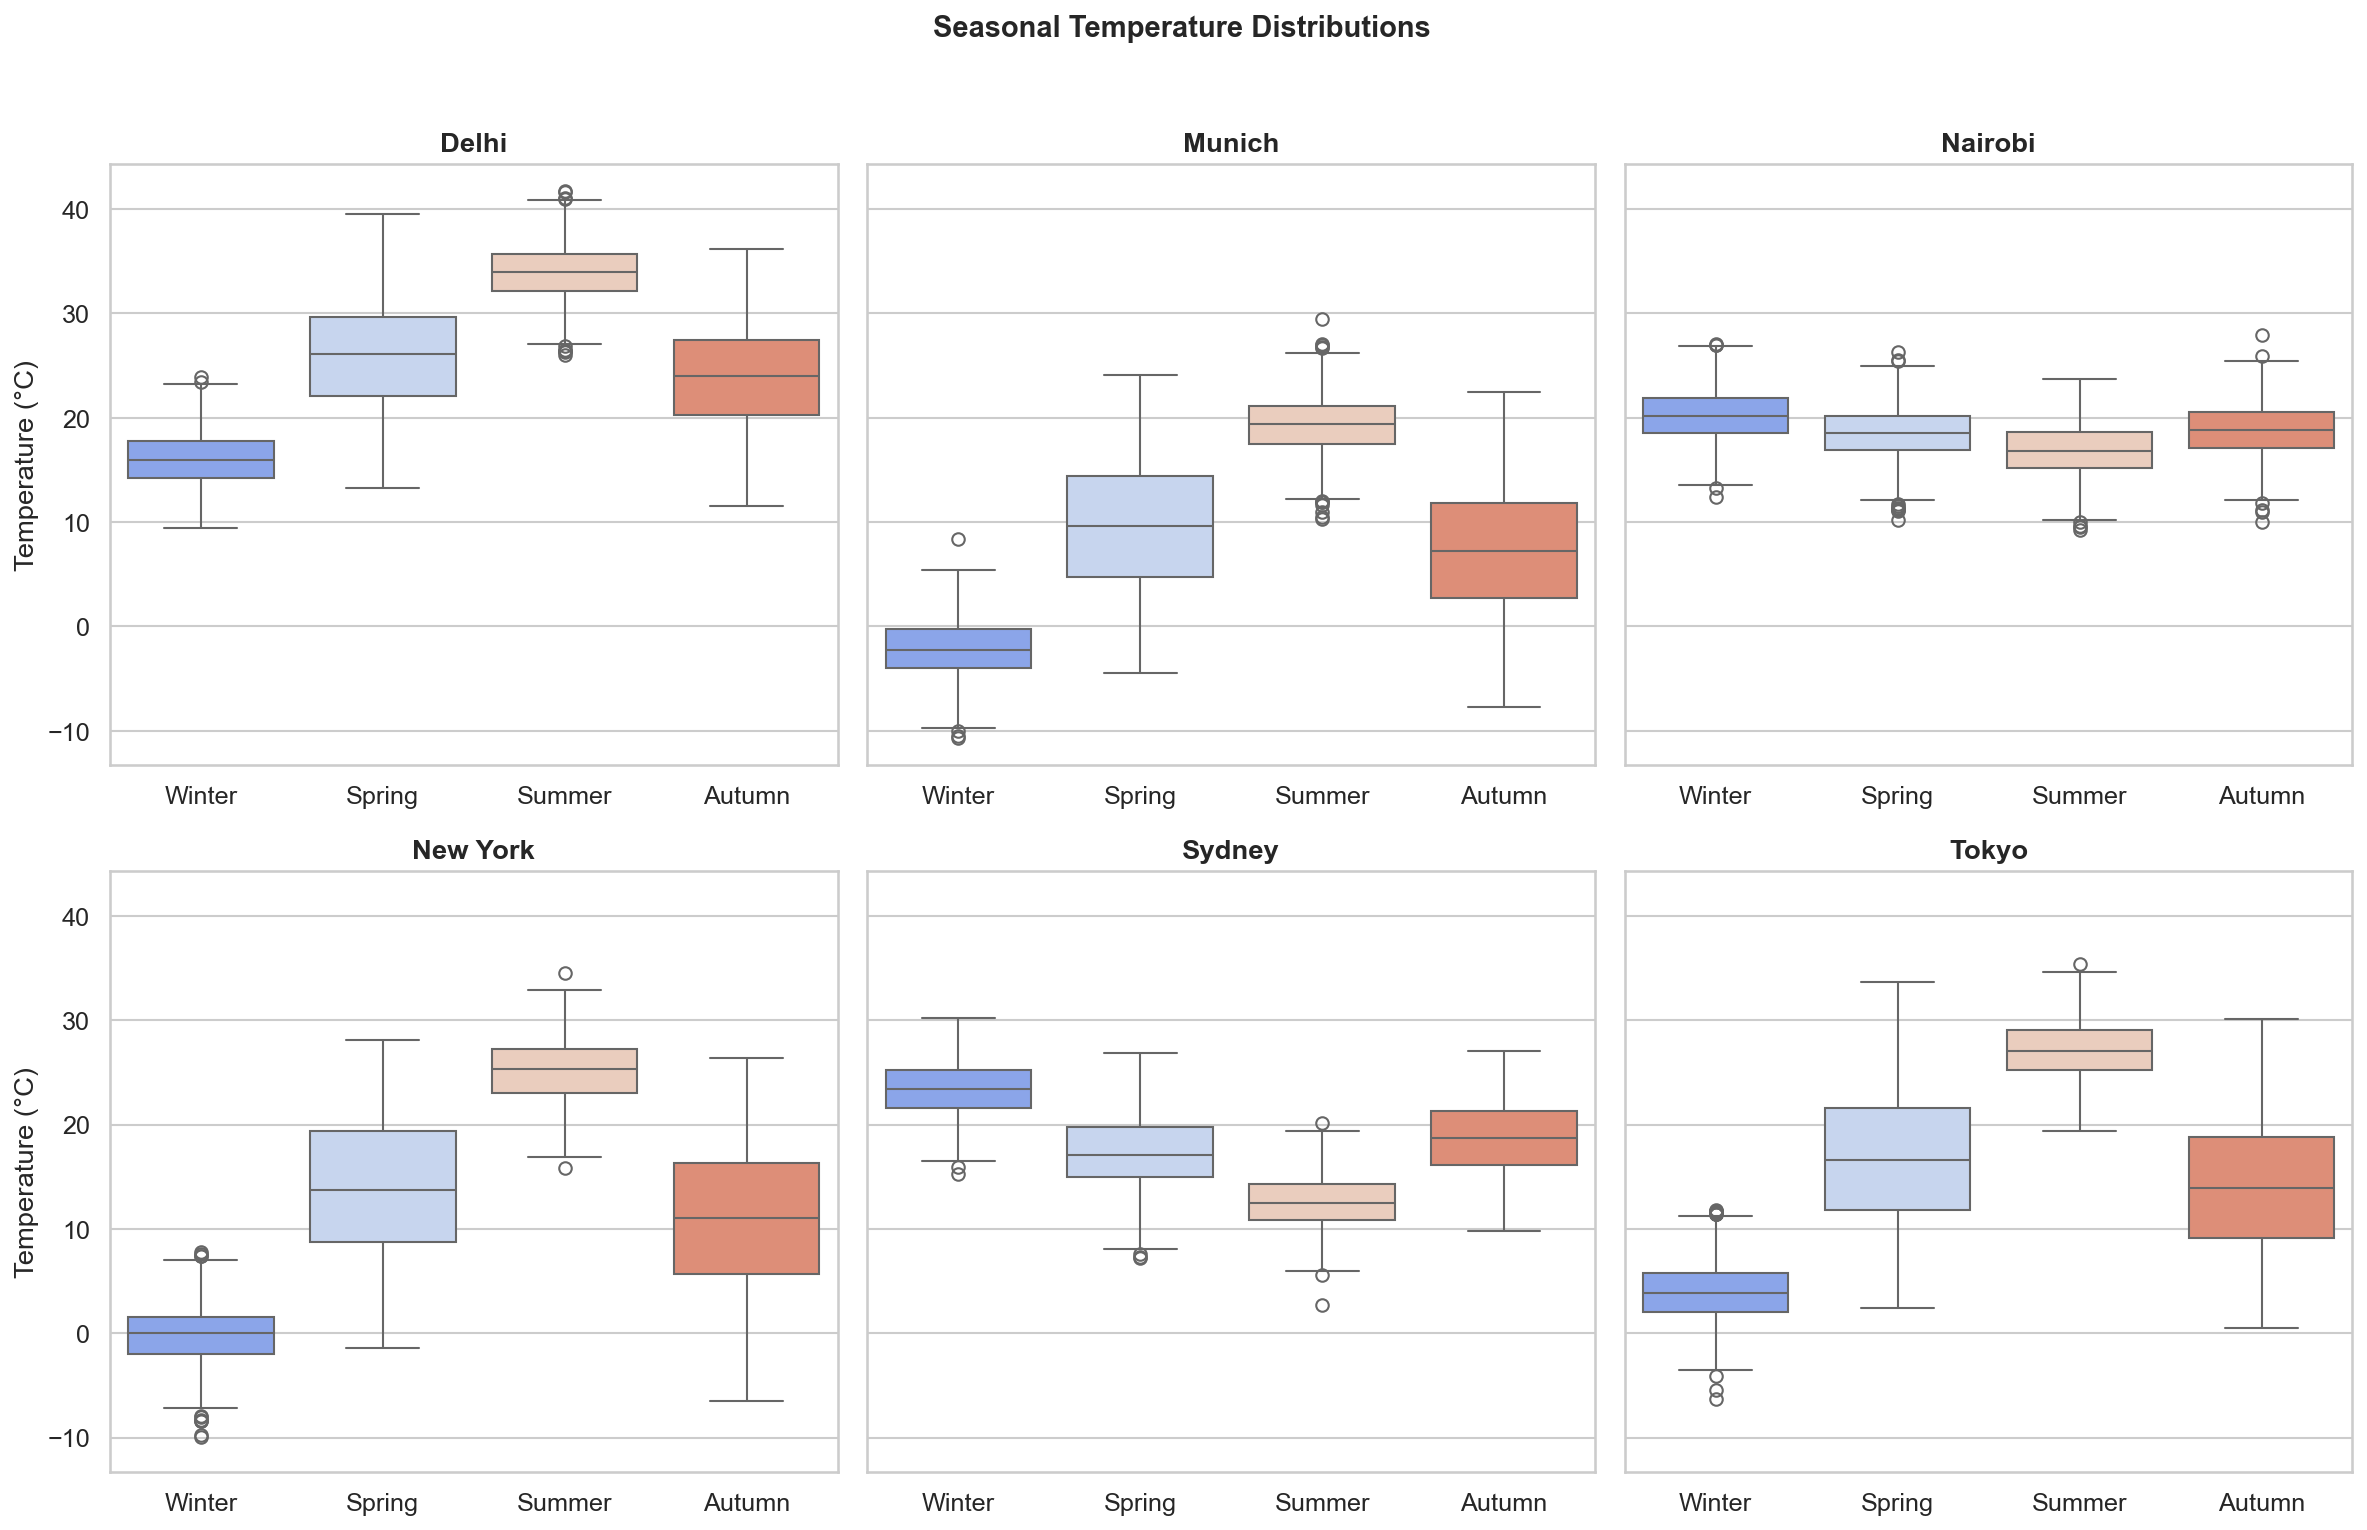
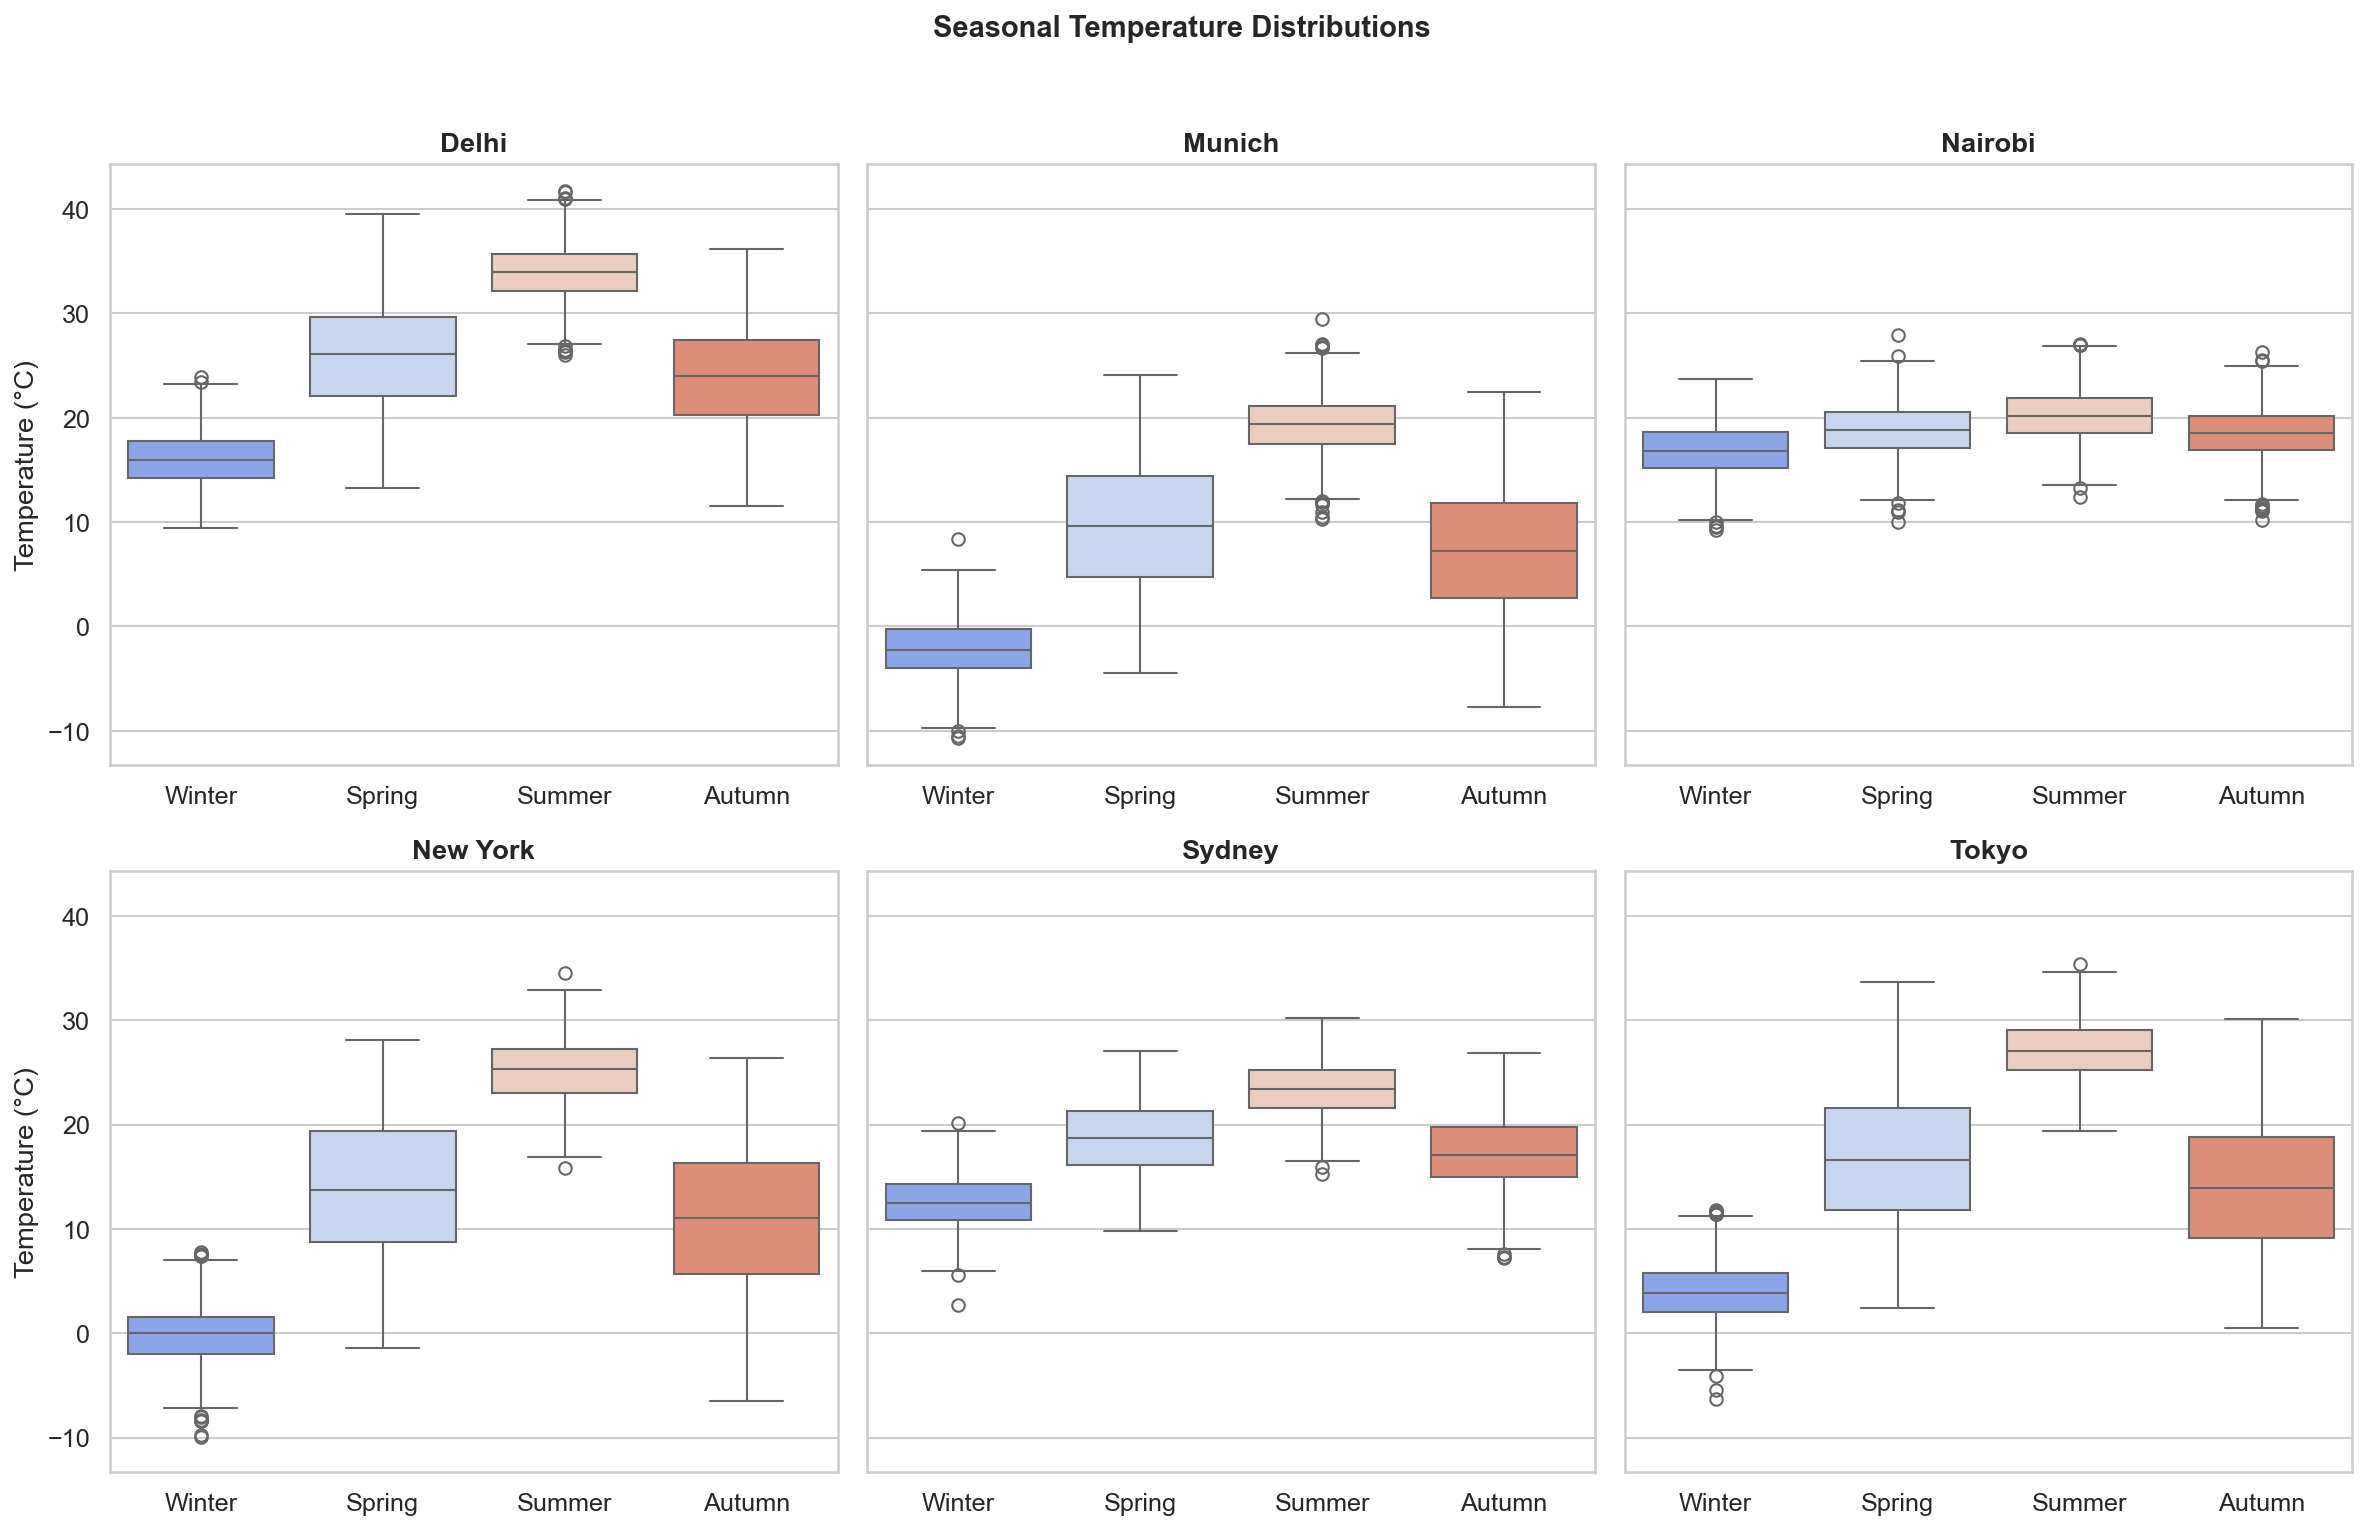
Correct two labels on the original figures
Figure 08 was titled a temperature anomaly relative to monthly
climatology. It plots a 90-day rolling departure from each city's own
monthly mean, which is a different and smaller thing, and on a record whose
days are drawn independently there is no trend for it to show. Retitled to
say what it plots.

The module docstring claimed comprehensive coverage and climate anomaly
detection. Replaced with a description of the twelve figures and the two
caveats that matter: the correlation matrix is the pooled one, and the
departure series is noise by construction.

Computations are unchanged. Figure 03 is regenerated with a two-pixel
layout shift from a newer matplotlib; the data behind it is identical.

diff --git a/src/eda_analysis.py b/src/eda_analysis.py
@@ -1,25 +1,34 @@
-"""
-Comprehensive Exploratory Data Analysis of Weather Data.
+"""The original twelve exploratory figures, kept as they were computed.
 
-Generates 10+ professional publication-quality visualizations covering:
-- Temperature distributions and trends
-- Precipitation patterns and extremes
-- Seasonal and geographic comparisons
-- Correlation analysis
-- Climate anomaly detection
+Descriptive plots of the generated record in data/weather_data.csv: temperature
+distributions, precipitation by month, seasonal and per-city comparisons, a
+correlation matrix and a departure-from-monthly-mean series.
+
+Two of these figures carry a caveat the README covers in more detail.
+
+  The correlation matrix (figure 06) is computed over all six cities pooled
+  together, which mixes differences between cities into coefficients meant to
+  describe days within one. Figure 04 under docs/figures shows the same
+  correlation at three levels of pooling.
+
+  The departure series (figure 08) has nothing to find. The generator draws each
+  day independently around a fixed seasonal mean, so there is no trend and no
+  persistence in this record. The series is noise by construction and is not
+  evidence about weather or climate anywhere.
+
+Writes results/figures/ and results/key_findings.json.
 """
 
-import os
 import json
+import os
+
+import matplotlib
 import numpy as np
 import pandas as pd
-import matplotlib
 
 matplotlib.use("Agg")
 import matplotlib.pyplot as plt
-import matplotlib.gridspec as gridspec
 import seaborn as sns
-from scipy import stats
 
 # Style configuration
 sns.set_theme(style="whitegrid", font_scale=1.1)
@@ -40,7 +49,7 @@ def run_eda(csv_path: str, output_dir: str = "../results"):
     print(f"Date range: {df['date'].min().date()} to {df['date'].max().date()}")
 
     # ===============================================================
-    # 1. DATASET OVERVIEW — Summary Statistics
+    # 1. DATASET OVERVIEW: summary statistics
     # ===============================================================
     summary = (
         df.groupby("city")
@@ -145,7 +154,7 @@ def run_eda(csv_path: str, output_dir: str = "../results"):
     print("Saved: 03_seasonal_temp.png")
 
     # ===============================================================
-    # 5. PRECIPITATION PATTERNS — Monthly totals
+    # 5. PRECIPITATION PATTERNS: monthly totals
     # ===============================================================
     monthly_precip = (
         df.groupby(["city", "month"])["precipitation_mm"].sum().reset_index()
@@ -254,7 +263,7 @@ def run_eda(csv_path: str, output_dir: str = "../results"):
     print("Saved: 06_correlation_matrix.png")
 
     # ===============================================================
-    # 8. WIND ROSE — Wind speed distributions
+    # 8. WIND ROSE: wind speed distributions
     # ===============================================================
     fig, axes = plt.subplots(2, 3, figsize=(15, 10))
     for idx, city in enumerate(cities):
@@ -305,8 +314,8 @@ def run_eda(csv_path: str, output_dir: str = "../results"):
         )
     ax.axhline(0, color="black", linewidth=0.8, linestyle="-")
     ax.set_xlabel("Date")
-    ax.set_ylabel("Temperature Anomaly (°C)")
-    ax.set_title("90-Day Rolling Temperature Anomaly (Relative to Monthly Climatology)")
+    ax.set_ylabel("Departure from monthly mean (°C)")
+    ax.set_title("90-Day Rolling Departure From Each City's Own Monthly Mean")
     ax.legend(bbox_to_anchor=(1.02, 1), loc="upper left")
     fig.tight_layout()
     fig.savefig(os.path.join(figures_dir, "08_temp_anomaly.png"), dpi=150)
@@ -314,7 +323,7 @@ def run_eda(csv_path: str, output_dir: str = "../results"):
     print("Saved: 08_temp_anomaly.png")
 
     # ===============================================================
-    # 10. EXTREME EVENTS — Precipitation exceedance
+    # 10. EXTREME EVENTS: precipitation exceedance
     # ===============================================================
     fig, ax = plt.subplots(figsize=(12, 6))
     for i, city in enumerate(cities):
@@ -335,7 +344,7 @@ def run_eda(csv_path: str, output_dir: str = "../results"):
     print("Saved: 09_precip_exceedance.png")
 
     # ===============================================================
-    # 11. HUMIDITY vs TEMPERATURE — Scatter with density
+    # 11. HUMIDITY vs TEMPERATURE: scatter with density
     # ===============================================================
     fig, axes = plt.subplots(2, 3, figsize=(16, 10))
     for idx, city in enumerate(cities):
@@ -360,7 +369,7 @@ def run_eda(csv_path: str, output_dir: str = "../results"):
         fontweight="bold",
         y=1.01,
     )
-    cbar = fig.colorbar(scatter, ax=axes, shrink=0.6, label="Precipitation (mm)")
+    fig.colorbar(scatter, ax=axes, shrink=0.6, label="Precipitation (mm)")
     fig.tight_layout()
     fig.savefig(
         os.path.join(figures_dir, "10_temp_humidity_scatter.png"),
@@ -371,7 +380,7 @@ def run_eda(csv_path: str, output_dir: str = "../results"):
     print("Saved: 10_temp_humidity_scatter.png")
 
     # ===============================================================
-    # 12. UV INDEX — Seasonal patterns
+    # 12. UV INDEX: seasonal patterns
     # ===============================================================
     fig, ax = plt.subplots(figsize=(12, 6))
     monthly_uv = df.groupby(["city", "month"])["uv_index"].mean().reset_index()
@@ -451,7 +460,7 @@ def run_eda(csv_path: str, output_dir: str = "../results"):
     with open(os.path.join(output_dir, "key_findings.json"), "w") as f:
         json.dump(findings, f, indent=2)
 
-    print(f"\nKey findings:")
+    print("\nKey findings:")
     for k, v in findings.items():
         print(f"  {k}: {v}")
 
